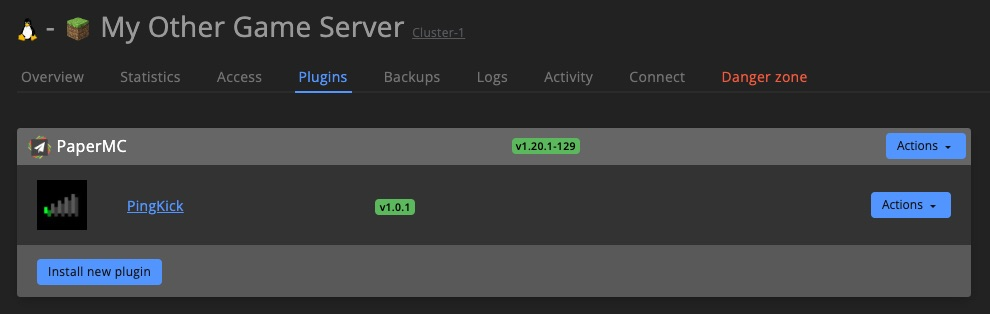
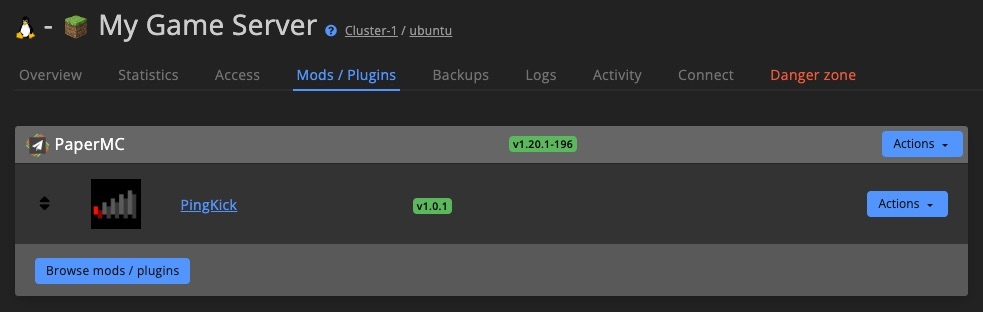
update docs about mods / plugin

diff --git a/Documentation/docs/dashboard/game_servers/mods_plugins.md b/Documentation/docs/dashboard/game_servers/mods_plugins.md
@@ -11,8 +11,80 @@ Fully automated mod / plugin installation and updating support for:
 
 ![Mods & plugins - ](/img/dashboard/gameserver/mods_plugins/mod_overview.jpg)
 
-## Mods
-When the game supports mods there will be a `Mods` tab under Game server settings.
+
+## Mod / Plugin Framework
+Before you can go ahead and install mods / plugins, the framework should to be installed first in most cases. Certain games allow you to select a specific mod / plugin framework version, others will the latest version.
+
+### Install framework
+Hit the `Actions` button and select the version you want to install.
+
+![Mods & plugins - install plugin framework 1](/img/dashboard/gameserver/mods_plugins/install_plugin_framework_1.jpg)
+
+Select one or multiple game servers that should have the framework installed.
+
+![Mods & plugins - install plugin framework 2](/img/dashboard/gameserver/mods_plugins/install_plugin_framework_2.jpg)
+
+Installation usually takes only a few minutes. The installed version is displayed when it finished installing.
+
+![Mods & plugins - install plugin framework 3](/img/dashboard/gameserver/mods_plugins/install_plugin_framework_3.jpg)
+
+### Manage framework
+![Mods & plugins - manage plugin framework](/img/dashboard/gameserver/mods_plugins/plugin_framework_manage.jpg)
+
+#### Manually updating framework
+When an update is available for the framework you can manually update by click `Actions` and then `Update now`. 
+
+#### Uninstalling plugin framework
+To uninstall the framework go to `Actions` and click `Uninstall framework`.
+
+
+## Mods / Plugins
+Installing mods / plugins works identical for every mod / plugin framework on GSA (except for [STEAM mods](#steam-mods)). So when you know how to install mods / plugins on uMod, you can work with any other framework.
+
+
+### Install
+Hit `Browse mods / plugins` to install a new mod / plugin on the game server.
+
+![Mods & plugins - install plugin 1](/img/dashboard/gameserver/mods_plugins/install_plugin_1.jpg)
+
+In the `Available mods / plugins` window you can use search to find mods / plugins. Hit the `Install` button at the mod / plugin.
+
+![Mods & plugins - install plugin 2](/img/dashboard/gameserver/mods_plugins/install_plugin_2.jpg)
+
+Select one or multiple game servers that should have the mod / plugin installed. Make sure the [framework is installed](#plugin-framework) on all selected servers.
+
+![Mods & plugins - install plugin 3](/img/dashboard/gameserver/mods_plugins/install_plugin_3.jpg)
+
+Installation usually takes only a few minutes. The installed version is displayed when it finished installing.
+
+![Mods & plugins - install plugin 4](/img/dashboard/gameserver/mods_plugins/install_plugin_4.jpg)
+
+
+### Change load order
+Certain mods / plugins need to load in using a specific load order. The load order can be changed by grabbing the <icon icon="fa-solid fa-sort" size="md" /> and drag the mod / plugin to the desired position.
+
+![Mods & plugins - mod / plugin load order](/img/dashboard/gameserver/mods_plugins/change_mod-plugin_load_order.jpg)
+
+### Update & delete
+![Mods & plugins - manage plugins](/img/dashboard/gameserver/mods_plugins/manage_plugin.jpg)
+
+#### Manually update mod /  plugin
+When an update is available for the mod / plugin you can manually update by click `Actions` and then `Update mod / plugin`.
+
+#### Delete mod / plugin
+To uninstall the mod / plugin go to `Actions` and click `Delete mod / plugin`.
+
+
+### Configs
+When supported, mod / plugin configuration files can be managed via the [Config templates `Plugin` section](/dashboard/game_servers/config_templates#plugin-configs).
+
+Click `Add to config templ.` to add the mod / plugin to the Config template for the selected game server.
+
+![Mods & plugins - plugin config](/img/dashboard/gameserver/mods_plugins/plugin_config.jpg)
+
+
+## Steam Mods
+When the game supports steam mods there will be a `Mods` tab under Game server settings.
 
 ### Install mods
 For most Steam games there is a special `Workshop` section where you can find mods. There are multiple ways you can install these mods on the game server:
@@ -47,72 +119,6 @@ When you want to double check whether the mod was updated, hover over the `Lates
 
 ![Mods & plugins - mod manifest id](/img/dashboard/gameserver/mods_plugins/mod_manifest_id.jpg)
 :::
-
-## Plugin framework
-Before you can go ahead and install plugins, the plugin framework needs to be installed first. Certain games allow you to select a specific plugin framework version. Others will default to the latest version.
-
-### Install plugin framework
-Hit the `Actions` button and select the version you want to install.
-
-![Mods & plugins - install plugin framework 1](/img/dashboard/gameserver/mods_plugins/install_plugin_framework_1.jpg)
-
-Select one or multiple game servers that should have the framework plugin installed.
-
-![Mods & plugins - install plugin framework 2](/img/dashboard/gameserver/mods_plugins/install_plugin_framework_2.jpg)
-
-Installation usually takes only a few minutes. The installed version is displayed when it finished installing.
-
-![Mods & plugins - install plugin framework 3](/img/dashboard/gameserver/mods_plugins/install_plugin_framework_3.jpg)
-
-### Manage framework
-![Mods & plugins - manage plugin framework](/img/dashboard/gameserver/mods_plugins/plugin_framework_manage.jpg)
-
-#### Manually updating framework
-When an update is available for the framework you can manually update by click `Actions` and then `Update now`. 
-
-#### Uninstalling plugin framework
-To uninstall the framework go to `Actions` and click `Uninstall framework`.
-
-
-## Plugins
-Installing plugins works identical for every plugin framework on GSA. So when you know how to install plugins on uMod, you can work with any other plugin framework.
-
-
-### Install plugin
-Hit `Install new plugin` to install a new plugin on the game server.
-
-![Mods & plugins - install plugin 1](/img/dashboard/gameserver/mods_plugins/install_plugin_1.jpg)
-
-In the `Available plugins` popup you can use search to find the right plugin. Hit the `Install` button at the plugin you want to install.
-
-![Mods & plugins - install plugin 2](/img/dashboard/gameserver/mods_plugins/install_plugin_2.jpg)
-
-Select one or multiple game servers that should have the plugin installed. Make sure the [plugin framework is installed](#plugin-framework) on all selected servers.
-
-![Mods & plugins - install plugin 3](/img/dashboard/gameserver/mods_plugins/install_plugin_3.jpg)
-
-Installation usually takes only a few minutes. The installed version is displayed when it finished installing.
-
-![Mods & plugins - install plugin 4](/img/dashboard/gameserver/mods_plugins/install_plugin_4.jpg)
-
-### Manage plugins
-![Mods & plugins - manage plugins](/img/dashboard/gameserver/mods_plugins/manage_plugin.jpg)
-
-#### Manually update plugin
-When an update is available for the plugin you can manually update by click `Actions` and then `Update plugin`.
-
-#### Delete plugin
-To uninstall the framework go to `Actions` and click `Delete plugin`.
-
-
-### Plugin configs
-Plugin configuration files can be managed via the [Config templates `Plugin` section](/dashboard/game_servers/config_templates#plugin-configs) for most games.
-
-Click `Add to config templ.` to add the plugin to the Config template for the selected game server.
-
-![Mods & plugins - plugin config](/img/dashboard/gameserver/mods_plugins/plugin_config.jpg)
-
-
 
 ## Update countdown
 Configure how long the in-game countdown should run before automatically updating mods, plugins & plugin frameworks. Countdown options range from `immediately` to 75 minutes.
